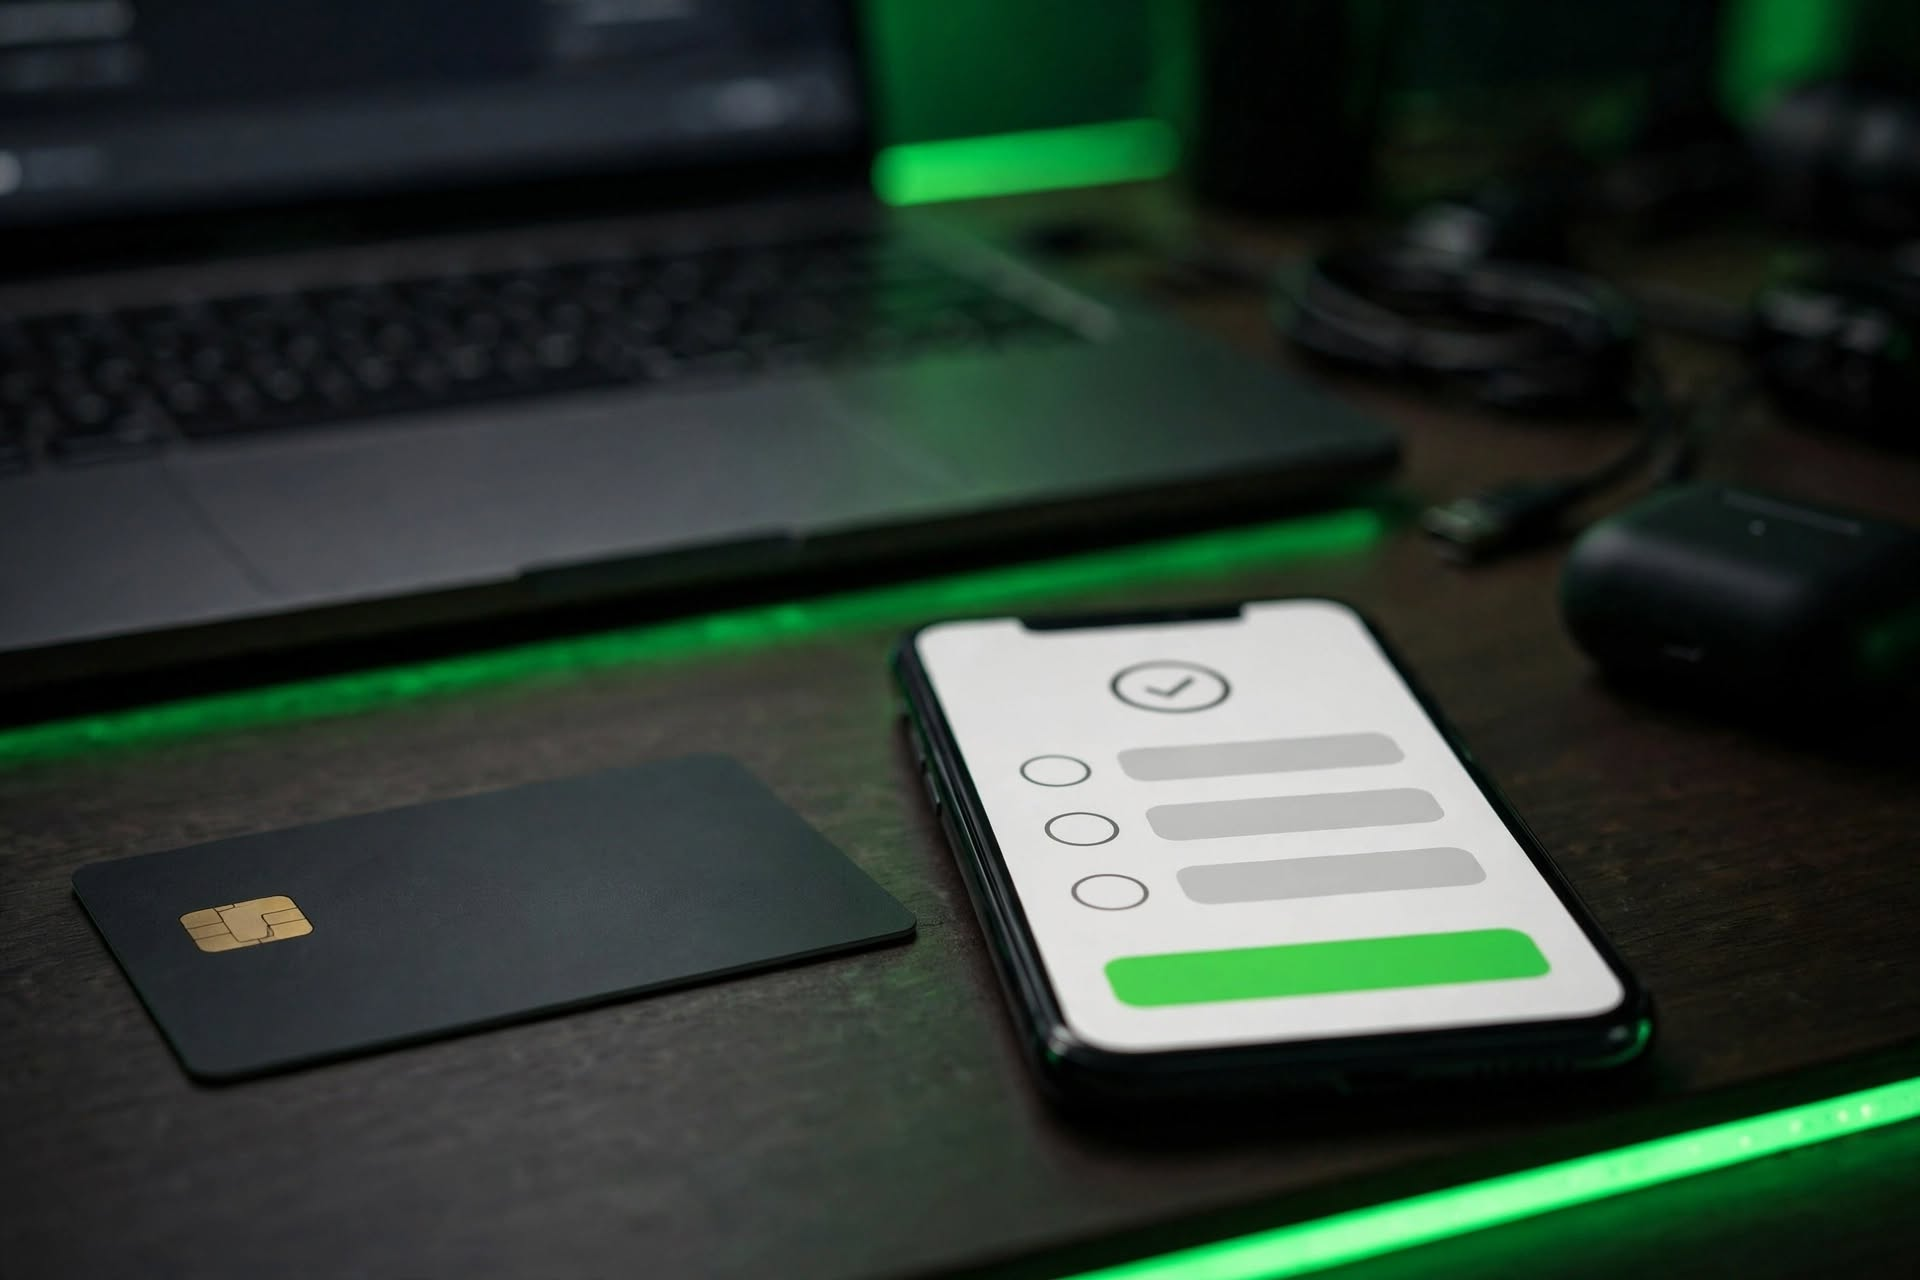
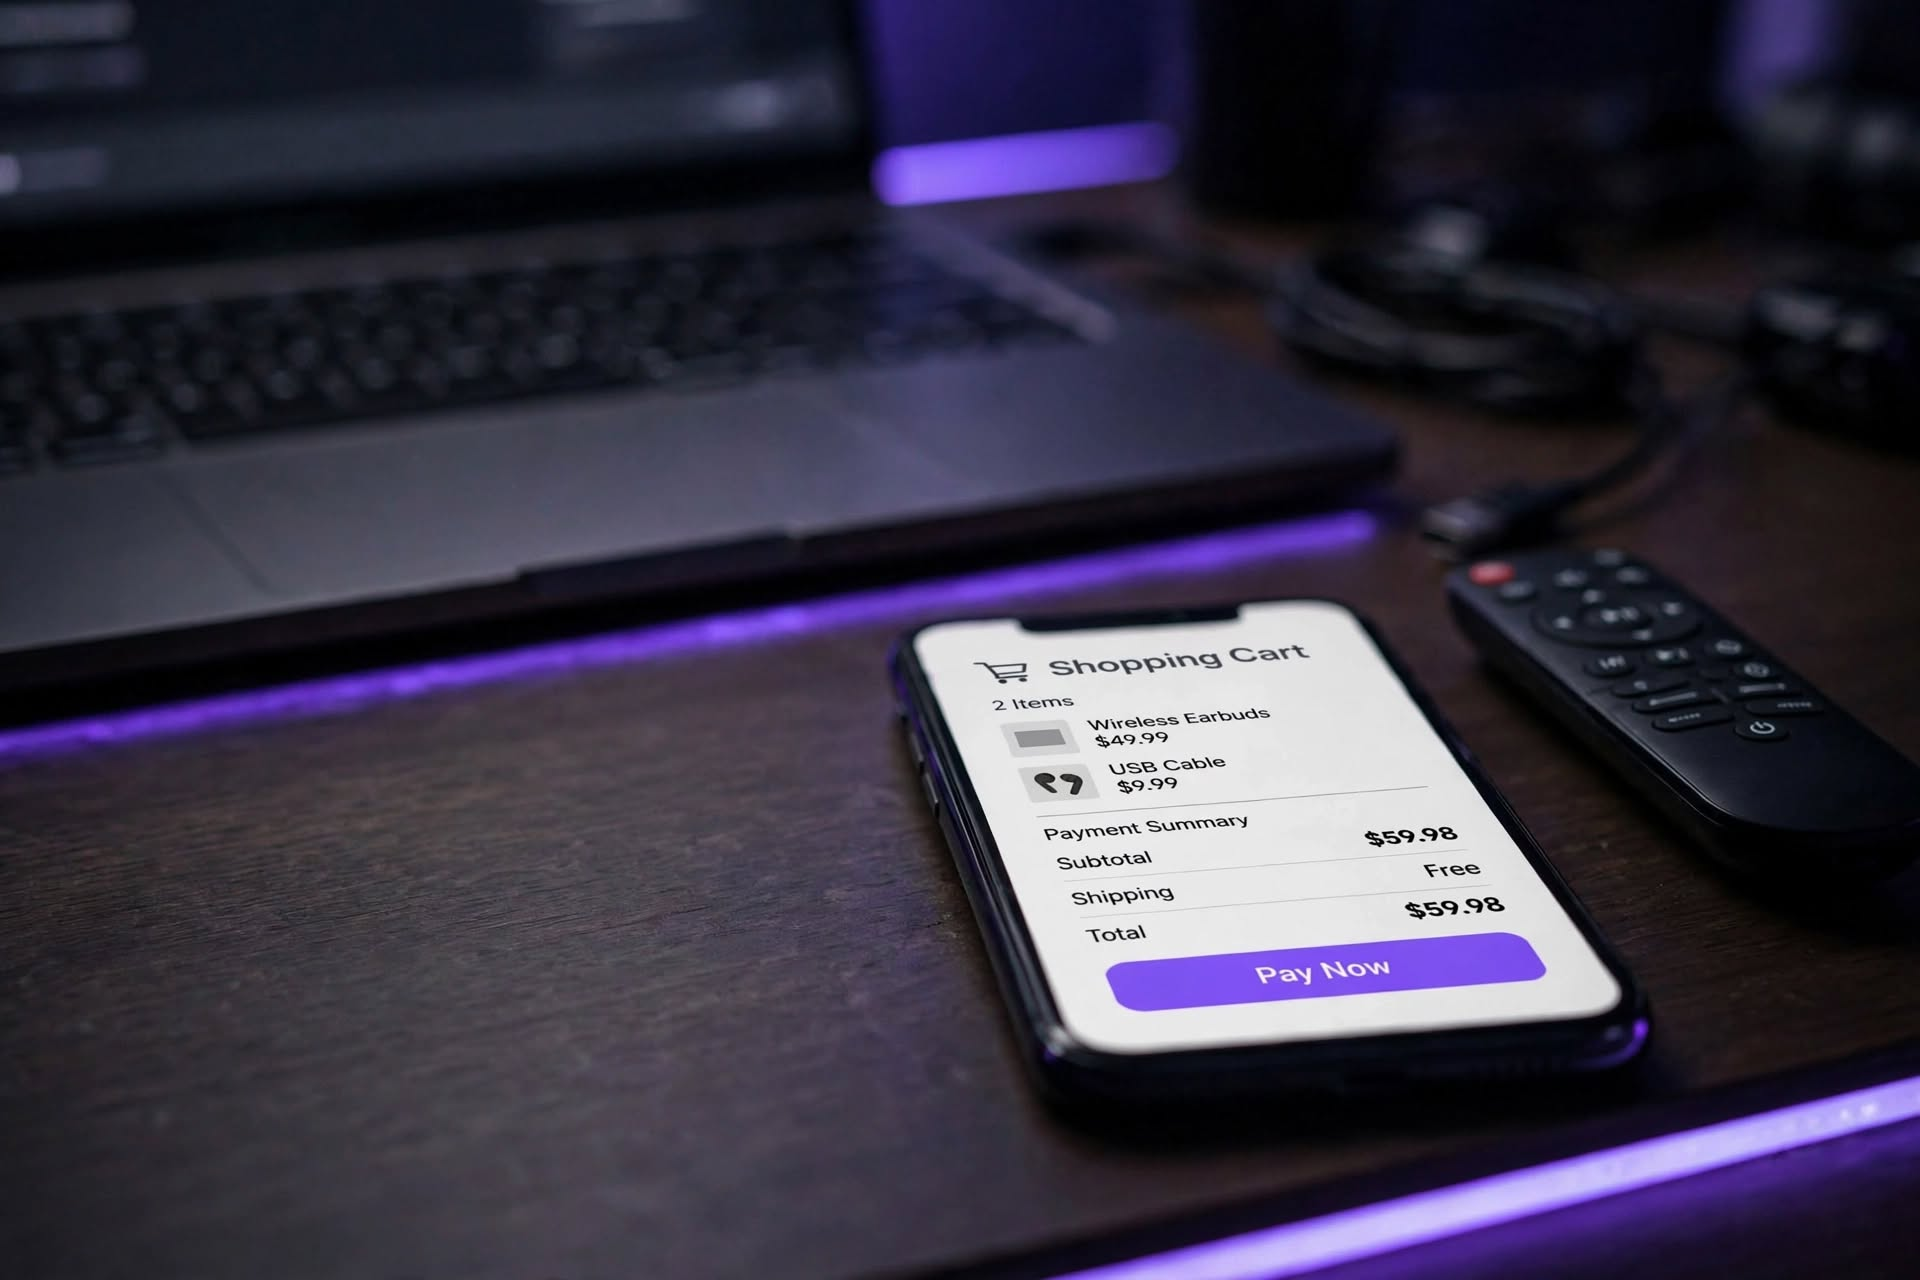
Replace green photos with violet versions
Swap in the violet-lit photos under clean file names, point the order
page and the Fußball slot to the new images, update two alt texts, and
drop the old green images that are no longer used.

diff --git a/app/deutsches-fernsehen-iptv/page.tsx b/app/deutsches-fernsehen-iptv/page.tsx
@@ -124,10 +124,10 @@ export default function DeutschesFernsehenPage() {
           <ProseSection title="Sport im Wohnzimmer">
             <div className="overflow-hidden rounded-2xl border border-border">
               <Image
-                src="/images/iptv-fussball-wohnzimmer.jpg"
-                alt="Freunde schauen ein Fußballspiel per IPTV auf dem Fernseher"
-                width={1920}
-                height={1280}
+                src="/images/premium-home-cinema.jpg"
+                alt="Heimkino mit großem Fernseher für deutsches Fernsehen per IPTV"
+                width={2096}
+                height={1184}
                 sizes="(max-width: 768px) 100vw, 768px"
                 className="h-auto w-full object-cover"
               />

diff --git a/lib/blog.ts b/lib/blog.ts
@@ -156,7 +156,7 @@ export const blogPosts: BlogPost[] = [
     publishedAt: "2026-10-23",
     image: {
       src: "/images/mediathek-fernseher.jpg",
-      alt: "Fernseher in einer Ferienwohnung, auf dem deutsches Fernsehen im Ausland läuft",
+      alt: "Fernseher mit Filmübersicht: deutsches Fernsehen im Ausland per IPTV",
     },
     intro:
       "Ob Wintermonate in Spanien, Ferienhaus in Dänemark oder ein neuer Job im Ausland: Viele möchten ihre gewohnten Sendungen nicht missen. Deutsches Fernsehen im Ausland zu schauen ist heute einfacher als früher. Es gibt aber Unterschiede, die Sie kennen sollten, bevor die Koffer gepackt sind.",

diff --git a/app/iptv-bestellen/page.tsx b/app/iptv-bestellen/page.tsx
@@ -48,7 +48,7 @@ export default function IptvBestellenPage() {
         eyebrow="Bestellung"
         title="IPTV bestellen: vom Tarif bis zu den Zugangsdaten"
         image={{
-          src: "/images/iptv-bestellen-fernbedienung.jpg",
+          src: "/images/iptv-bestellung-smartphone.jpg",
           alt: "Smartphone mit Bestellübersicht neben einer TV-Fernbedienung",
           width: 1920,
           height: 1280,
